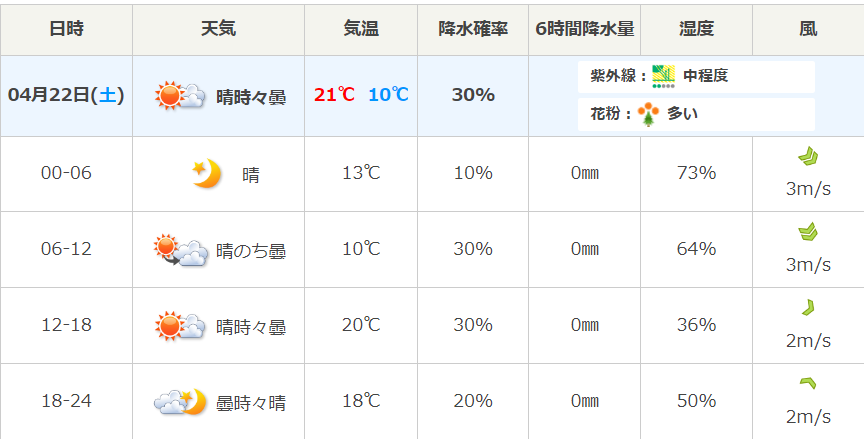
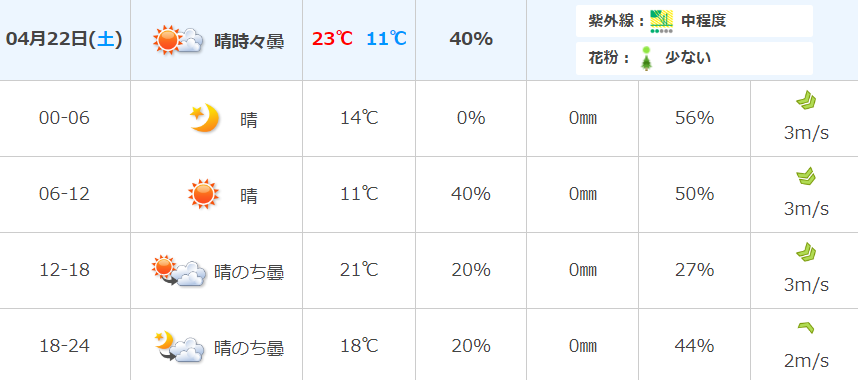
230419

diff --git a/230422_猿投山/plan.md b/230422_猿投山/plan.md
@@ -1,5 +1,5 @@
 # 基本情報
-## 山
+## 山：猿投山
 - 山頂標高：628m
     - 登山口から山頂までの標高差：約470m
     - 上り下り標高差：約650m
@@ -14,16 +14,14 @@
 ![](pic/mountain_map.jpg)
 ## 4/22の登山口天気(04/17時点の情報)
 ![](pic/0422_weather.png)
-- 前日(4/21)雨なので、当日の道は少し濡れている可能性あり
-    - 階段・舗装路がほどんとなので、濡れていても歩きやすいので、専門的な登山靴要らなくても大丈夫
-    - 濡れていると靴汚れやすいので、汚れても大丈夫な靴がお勧め
-- 11:00から登り始めると、登山気温予想は16~20℃
+- 11:00から登り始めると、登山気温予想は15~21℃
     - 山頂は標高より登山口より-3℃予想
-    - 登り始めると体が熱くなり、止まって休憩取ると寒くなり(特に山頂)
+    - 登り始めると体が熱くなり、止まって休憩取ると寒くなる(特に山頂)
         - **状況に応じて保温性能調節しやすいようなウエア組合わせがお勧め**
-        - 当日風は強くないが風はまだ寒いので防風できるコードがお勧め
+        - 当日風あるので防風できるコードがお勧め
 
 # スケージュール（交通機関）
+交通機関の時間は正確な時間ですが、登山の時間は概ねの予測になります。
 - 9:45：豊田市駅西口マクドナルド（[豊田市駅前店](https://map.mcdonalds.co.jp/map/23037)）前に集合
 - 10:00 ~ 10:30：豊田おいでんバス：「豊田市駅」～「猿投神社前駅」（**藤岡・豊田線**）
 - ①10:30 ~ 12:30 or 13:00：東海自然歩道経由で休憩所・展望台まで登山
@@ -33,7 +31,7 @@
 - ⑤15:00 ~ 15:45：西の登山道経由で血洗いの滝まで下山
 - ⑥15:45 ~ 16:15：下山しながら猿投七滝観光
 - ⑦16:15 ~ 17:45：林道猿投山1号線経由で、「猿投神社前駅」バス駅まで下山
-    - 18:00のバスに間に合わないと、次は19:20
+    - 18:00のバスに間に合わないと、次は19:20になる
 - 18:00 ~ 18:28：豊田おいでんバス：「猿投神社前駅」～「豊田市駅」（**藤岡・豊田線**）
 - 18:28 ~ ：豊田市駅周辺で夕食。そしてそれぞれ電車で帰る
 ![](pic/mountain_roadmap.jpg)
